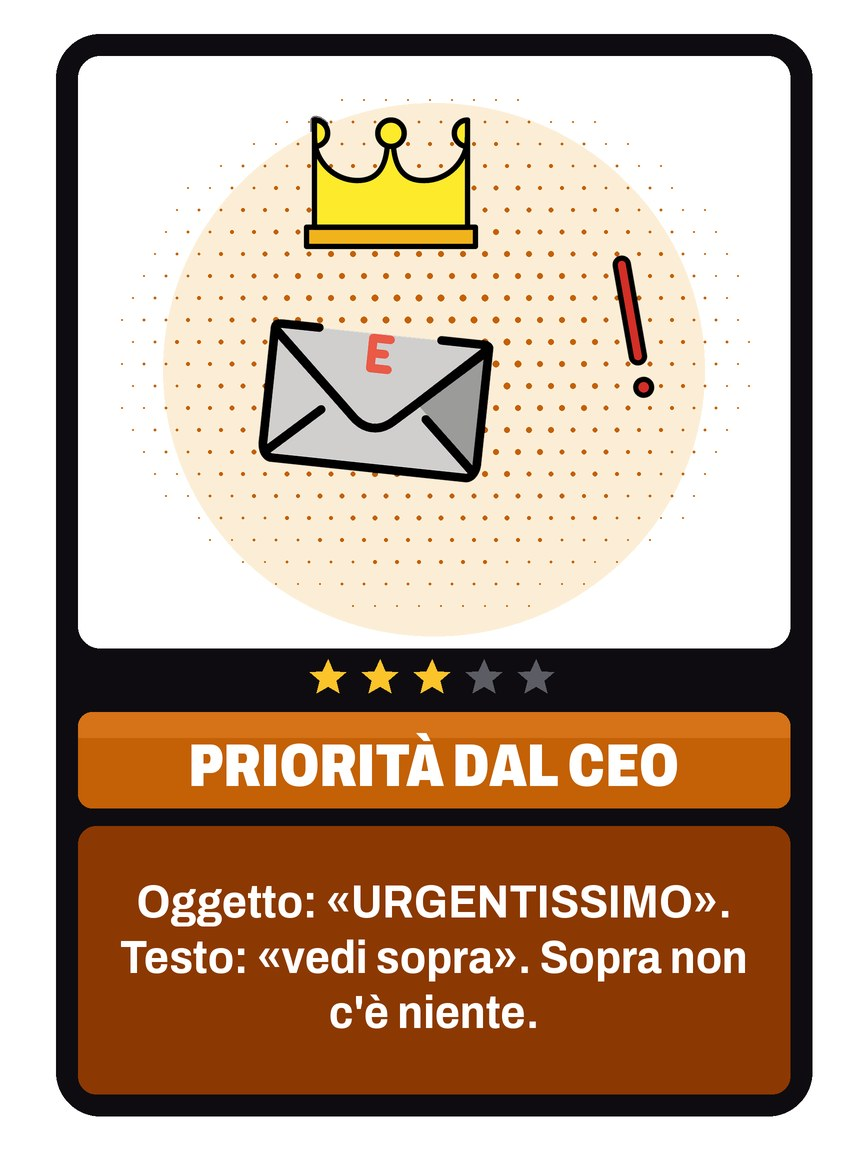
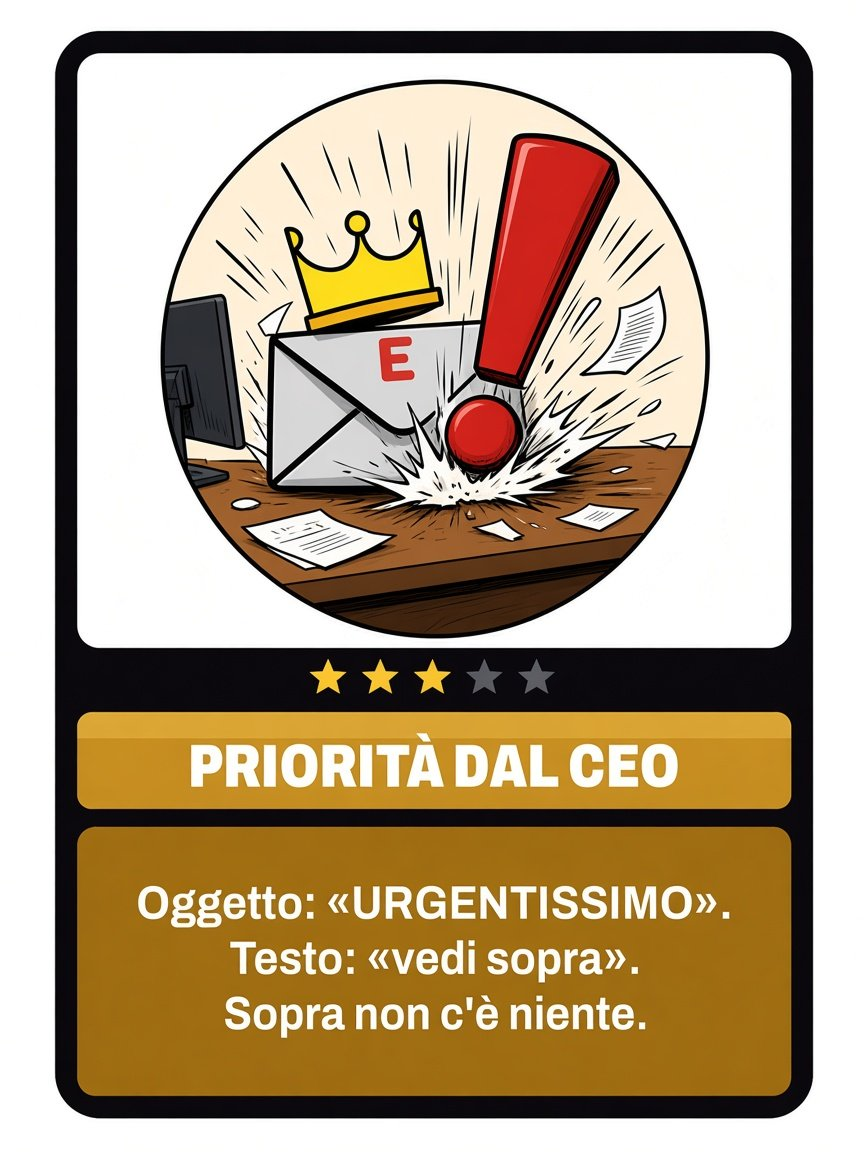
Illustrazioni definitive delle 13 carte nuove
Sostituiscono i pittogrammi provvisori. Stesso telaio, ritagli ricalcolati in cards.css.

diff --git a/public/cards.css b/public/cards.css
@@ -1,6 +1,6 @@
 /* Generato da art/build-frames.py: non modificare a mano. */
 [data-art="boost-patch-mai-applicata"]{--w:118.52%;--l:-7.68%;--t:-6.56%}
-[data-art="boost-priorita-dal-ceo"]{--w:115.35%;--l:-7.88%;--t:-3.69%}
+[data-art="boost-priorita-dal-ceo"]{--w:115.05%;--l:-7.72%;--t:-3.50%}
 [data-art="boost-versione-beta"]{--w:123.96%;--l:-12.05%;--t:-9.10%}
 [data-art="boost-zero-day-fresco"]{--w:123.61%;--l:-11.87%;--t:-8.98%}
 [data-art="curse-corso-obbligatorio-di-sicurezza"]{--w:115.46%;--l:-7.93%;--t:-3.55%}
@@ -11,12 +11,12 @@
 [data-art="curse-licenza-scaduta"]{--w:115.51%;--l:-8.02%;--t:-3.81%}
 [data-art="curse-mfa-sul-telefono-vecchio"]{--w:115.46%;--l:-7.93%;--t:-3.46%}
 [data-art="curse-migrazione-al-nuovo-gestionale"]{--w:115.46%;--l:-7.93%;--t:-3.65%}
-[data-art="curse-passaggio-di-consegne"]{--w:115.35%;--l:-7.88%;--t:-3.69%}
+[data-art="curse-passaggio-di-consegne"]{--w:114.89%;--l:-7.71%;--t:-3.38%}
 [data-art="curse-policy-di-gruppo-restrittiva"]{--w:115.51%;--l:-8.02%;--t:-3.72%}
 [data-art="curse-reset-password-obbligatorio"]{--w:115.51%;--l:-8.02%;--t:-3.62%}
 [data-art="curse-revisione-degli-accessi"]{--w:115.57%;--l:-7.92%;--t:-3.56%}
 [data-art="curse-riorganizzazione-aziendale"]{--w:115.57%;--l:-7.92%;--t:-3.65%}
-[data-art="curse-shoulder-surfing"]{--w:115.35%;--l:-7.88%;--t:-3.69%}
+[data-art="curse-shoulder-surfing"]{--w:114.74%;--l:-7.70%;--t:-3.64%}
 [data-art="gear-cr-domain-admin-dimenticato"]{--w:115.51%;--l:-8.02%;--t:-3.62%}
 [data-art="gear-cr-password-estate2024"]{--w:119.67%;--l:-11.77%;--t:-7.11%}
 [data-art="gear-cr-token-di-servizio-mai-ruotato"]{--w:123.78%;--l:-12.03%;--t:-7.66%}
@@ -87,15 +87,15 @@
 [data-art="threat-vpn-che-cade-solo-a-te"]{--w:115.46%;--l:-7.93%;--t:-3.65%}
 [data-art="threat-wi-fi-ospiti-senza-password"]{--w:115.35%;--l:-7.88%;--t:-3.64%}
 [data-art="threat-zero-day-del-venerdi-alle-17-59"]{--w:115.66%;--l:-8.03%;--t:-3.60%}
-[data-art="trick-capro-espiatorio"]{--w:115.35%;--l:-7.88%;--t:-3.69%}
-[data-art="trick-change-freeze"]{--w:115.35%;--l:-7.88%;--t:-3.69%}
-[data-art="trick-chiedo-all-ia"]{--w:115.35%;--l:-7.88%;--t:-3.69%}
-[data-art="trick-falso-positivo"]{--w:115.35%;--l:-7.88%;--t:-3.69%}
-[data-art="trick-hai-un-minuto"]{--w:115.35%;--l:-7.88%;--t:-3.69%}
-[data-art="trick-honeypot"]{--w:115.35%;--l:-7.88%;--t:-3.69%}
-[data-art="trick-riassegnazione-del-ticket"]{--w:115.35%;--l:-7.88%;--t:-3.69%}
-[data-art="trick-risposta-automatica"]{--w:115.35%;--l:-7.88%;--t:-3.69%}
-[data-art="trick-spegni-e-riaccendi"]{--w:115.35%;--l:-7.88%;--t:-3.69%}
-[data-art="trick-turno-di-reperibilita"]{--w:115.35%;--l:-7.88%;--t:-3.69%}
+[data-art="trick-capro-espiatorio"]{--w:114.89%;--l:-7.71%;--t:-3.52%}
+[data-art="trick-change-freeze"]{--w:114.89%;--l:-7.71%;--t:-3.57%}
+[data-art="trick-chiedo-all-ia"]{--w:115.05%;--l:-7.72%;--t:-3.55%}
+[data-art="trick-falso-positivo"]{--w:115.05%;--l:-7.72%;--t:-3.69%}
+[data-art="trick-hai-un-minuto"]{--w:115.20%;--l:-7.87%;--t:-3.67%}
+[data-art="trick-honeypot"]{--w:115.20%;--l:-7.87%;--t:-3.57%}
+[data-art="trick-riassegnazione-del-ticket"]{--w:114.89%;--l:-7.71%;--t:-3.48%}
+[data-art="trick-risposta-automatica"]{--w:114.89%;--l:-7.71%;--t:-3.62%}
+[data-art="trick-spegni-e-riaccendi"]{--w:114.89%;--l:-7.71%;--t:-3.57%}
+[data-art="trick-turno-di-reperibilita"]{--w:114.89%;--l:-7.71%;--t:-3.62%}
 [data-art="back-ticket"]{--w:115.66%;--l:-8.03%;--t:-3.98%}
 [data-art="back-asset"]{--w:115.46%;--l:-8.00%;--t:-3.74%}
